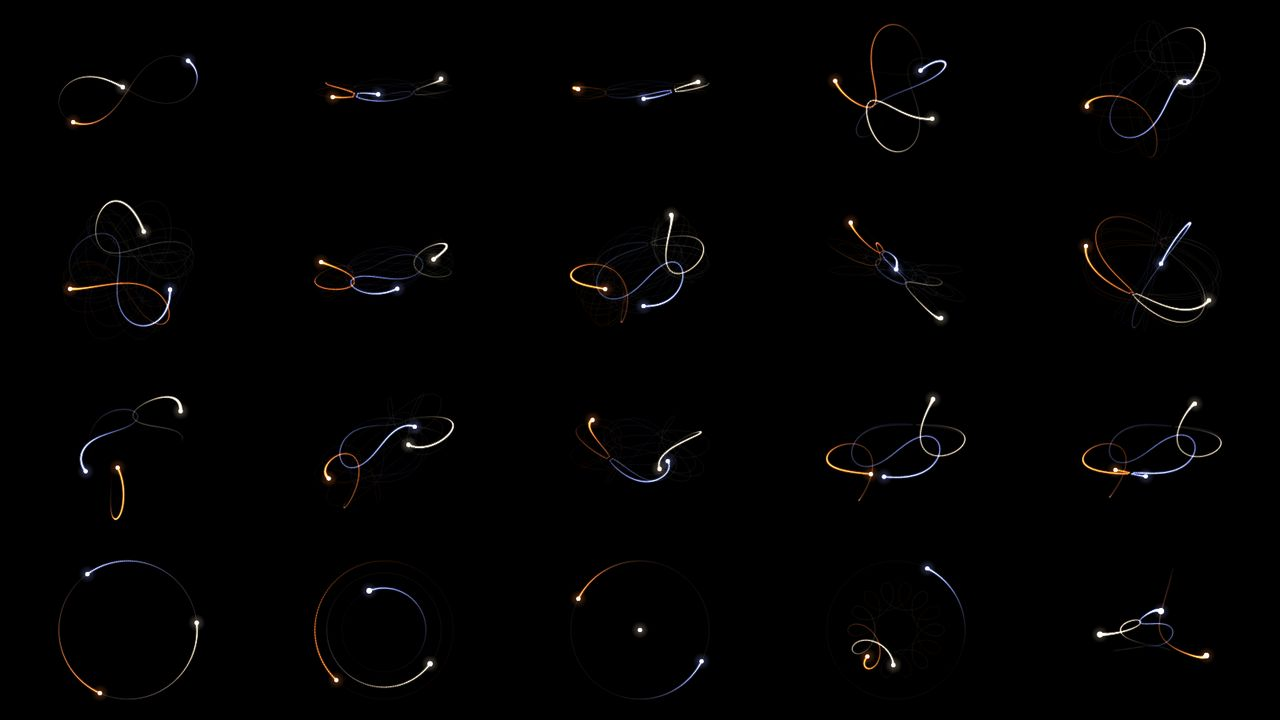
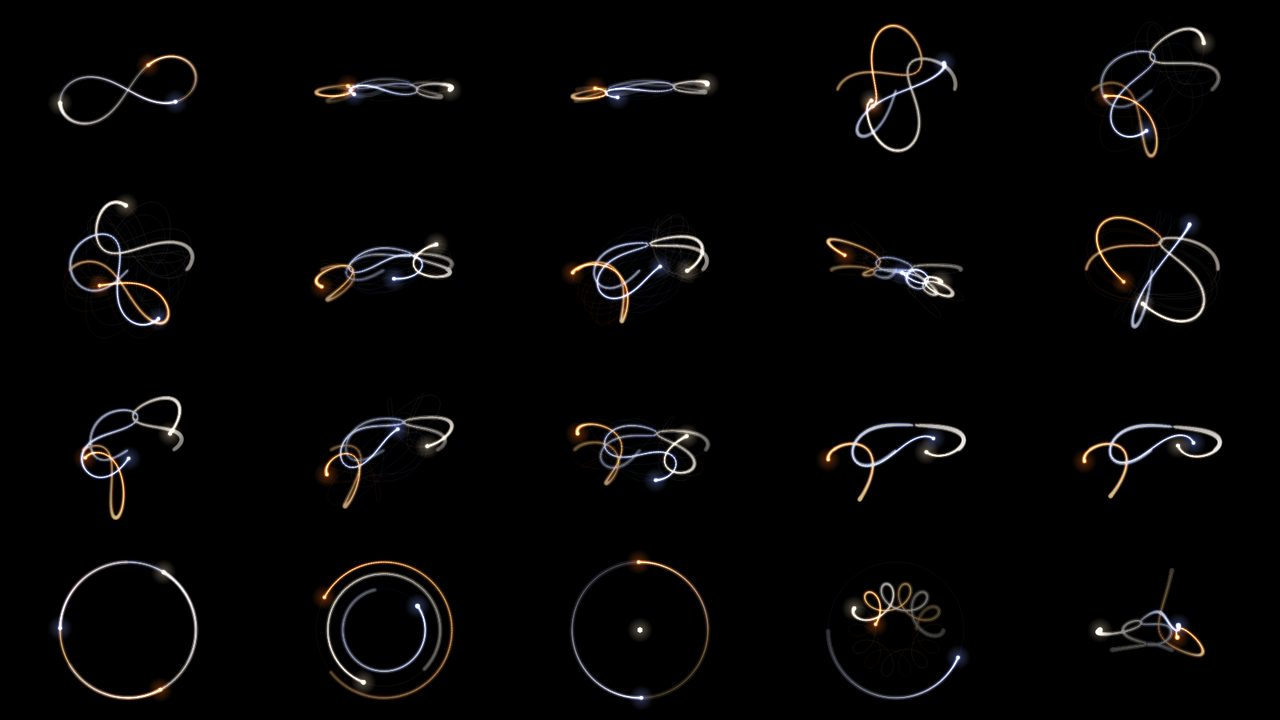
three_body_states: film kalitesi — iz kalıcı tuvalde (destination-out solma + yalnız yeni parça, 3 vuruş: hale/orta/sıcak çekirdek), kare başına ~1,5 ms; pano zamanları görsel tempoya normalize (0,3–2,4×), GIF renkleri, daha büyük hale; advance(dt) API; README galeri görselleri sayfalara bağlandı, i

diff --git a/README.md b/README.md
@@ -29,7 +29,7 @@ Envanter elle sayılmaz: `presets/registry.json` taramayla üretilir (`node scri
 
 ## Laboratuvar galerisi
 
-Astrodinamik ve GNC laboratuvarları: her biri saf bir model modülü, üstünde bir sahne. Görüntüler `?export=1` deterministik karesinden alınmıştır — sunumda göreceğiniz kare budur.
+Astrodinamik ve GNC laboratuvarları: her biri saf bir model modülü, üstünde bir sahne. Görüntüler `?export=1` deterministik karesinden alınmıştır — sunumda göreceğiniz kare budur. Her görsel ilgili sayfaya bağlıdır (yerel sunucuda açın).
 
 <p align="center">
   <img src="docs/media/lab-soi_explorer.jpg" alt="Etki Küresi Kâşifi — Dünya etki küresi ve Hill küresi gerçek ölçekte, Mars'a kalkış hiperbolü, gün işaretleri, Laplace oran paneli ve Güneş çerçevesi paneli" width="820">
@@ -37,30 +37,30 @@ Astrodinamik ve GNC laboratuvarları: her biri saf bir model modülü, üstünde
 
 | | | |
 |:---:|:---:|:---:|
-| ![Üç-cisim durumları — 20 periyodik çözüm](docs/media/lab-three_body_states.jpg) | ![Giriş koridoru — katmanlı atmosfer, hipersonik akış yakın planı, plazma kılıfı](docs/media/lab-reentry_corridor.jpg) | ![Halo yörüngeleri ve değişmez manifoldlar](docs/media/lab-halo_manifolds.jpg) |
+| [![Üç-cisim durumları — 20 periyodik çözüm](docs/media/lab-three_body_states.jpg)](presets/three_body_states/index.html) | [![Giriş koridoru — katmanlı atmosfer, hipersonik akış yakın planı, plazma kılıfı](docs/media/lab-reentry_corridor.jpg)](presets/reentry_corridor/index.html) | [![Halo yörüngeleri ve değişmez manifoldlar](docs/media/lab-halo_manifolds.jpg)](presets/halo_manifolds/index.html) |
 | **Üç-cisim durumları** — figure-8, kelebekler, Lagrange, kaotik Pisagor | **Giriş koridoru** — yay şoku, kızaran kalkan, ablasyon | **Halo + manifoldlar** — kararlı/kararsız demetler |
-| ![Etki küresi — Dünya kamerası, kalkış hiperbolü ve sonda](docs/media/lab-soi_explorer_earth.jpg) | ![Formasyon uçuşu — LVLH, gerçek ölçekli Dünya nadirde](docs/media/lab-formation_flight.jpg) | ![Aurora — çok perdeli, ışınlı, kar örtüsü](docs/media/lab-aurora.jpg) |
+| [![Etki küresi — Dünya kamerası, kalkış hiperbolü ve sonda](docs/media/lab-soi_explorer_earth.jpg)](presets/soi_explorer/index.html) | [![Formasyon uçuşu — LVLH, gerçek ölçekli Dünya nadirde](docs/media/lab-formation_flight.jpg)](presets/formation_flight/index.html) | [![Aurora — çok perdeli, ışınlı, kar örtüsü](docs/media/lab-aurora.jpg)](presets/aurora/index.html) |
 | **Etki küresi** — park yörüngesinden v∞ hedefli hiperbol | **Formasyon** — CW göreli yörüngeler, nadirde Dünya | **Aurora** — emisyon çizgilerinden renk, beş perde |
-| ![Ay serbest dönüş yörüngesi](docs/media/lab-free_return.jpg) | ![CR3BP ve Lagrange noktaları](docs/media/lab-cr3bp_lagrange.jpg) | ![Kütleçekim yardımı ve B-düzlemi](docs/media/lab-gravity_assist.jpg) |
+| [![Ay serbest dönüş yörüngesi](docs/media/lab-free_return.jpg)](presets/free_return/index.html) | [![CR3BP ve Lagrange noktaları](docs/media/lab-cr3bp_lagrange.jpg)](presets/cr3bp_lagrange/index.html) | [![Kütleçekim yardımı ve B-düzlemi](docs/media/lab-gravity_assist.jpg)](presets/gravity_assist/index.html) |
 | **Serbest dönüş** — Apollo 13'ün "8" figürü | **CR3BP** — L1–L5, sıfır-hız eğrileri | **Kütleçekim yardımı** — B-düzlemi hedefleme |
-| ![Porkchop kâşifi](docs/media/lab-porkchop_explorer.jpg) | ![Fırlatma ve tırmanış](docs/media/lab-launch_ascent.jpg) | ![Takımyıldız kapsama](docs/media/lab-constellation_coverage.jpg) |
+| [![Porkchop kâşifi](docs/media/lab-porkchop_explorer.jpg)](presets/porkchop_explorer/index.html) | [![Fırlatma ve tırmanış](docs/media/lab-launch_ascent.jpg)](presets/launch_ascent/index.html) | [![Takımyıldız kapsama](docs/media/lab-constellation_coverage.jpg)](presets/constellation_coverage/index.html) |
 | **Porkchop** — Lambert C3 / ΔV haritası | **Fırlatma** — yerçekimi dönüşü, max-q, MECO | **Kapsama** — Walker takımyıldızları |
-| ![Tisserand grafiği](docs/media/lab-tisserand_graph.jpg) | ![Lambert transfer kâşifi](docs/media/lab-transfer_explorer.jpg) | ![Fırlatma penceresi ve azimut](docs/media/lab-launch_window.jpg) |
+| [![Tisserand grafiği](docs/media/lab-tisserand_graph.jpg)](presets/tisserand_graph/index.html) | [![Lambert transfer kâşifi](docs/media/lab-transfer_explorer.jpg)](presets/transfer_explorer/index.html) | [![Fırlatma penceresi ve azimut](docs/media/lab-launch_window.jpg)](presets/launch_window/index.html) |
 | **Tisserand** — çoklu geçiş planlayıcı | **Transfer** — Lambert yayı, TOF taraması | **Fırlatma penceresi** — azimut, LST, dogleg |
-| ![Düşük itkili transfer](docs/media/lab-low_thrust_transfer.jpg) | ![Yörünge belirleme, EKF](docs/media/lab-orbit_determination.jpg) | ![Randevu ve kenetlenme](docs/media/lab-rendezvous_docking.jpg) |
+| [![Düşük itkili transfer](docs/media/lab-low_thrust_transfer.jpg)](presets/low_thrust_transfer/index.html) | [![Yörünge belirleme, EKF](docs/media/lab-orbit_determination.jpg)](presets/orbit_determination/index.html) | [![Randevu ve kenetlenme](docs/media/lab-rendezvous_docking.jpg)](presets/rendezvous_docking/index.html) |
 | **Düşük itki** — spiral, Edelbaum | **Yörünge belirleme** — EKF, NEES/NIS | **Randevu** — CW yaklaşmaları, KOS |
-| ![3B yörünge ve yer izi](docs/media/lab-ground_track_3d.jpg) | ![Yönelim ve GNC](docs/media/lab-attitude_gnc.jpg) | ![Tutulma ve görüş geometrisi](docs/media/lab-eclipse_geometry.jpg) |
+| [![3B yörünge ve yer izi](docs/media/lab-ground_track_3d.jpg)](presets/ground_track_3d/index.html) | [![Yönelim ve GNC](docs/media/lab-attitude_gnc.jpg)](presets/attitude_gnc/index.html) | [![Tutulma ve görüş geometrisi](docs/media/lab-eclipse_geometry.jpg)](presets/eclipse_geometry/index.html) |
 | **Yer izi** — J2 düğüm kayması | **Yönelim** — tepki tekerlekleri, kuaterniyon PD | **Tutulma** — umbra/penumbra, β açısı |
-| ![Küresel harmonik yerçekimi alanı](docs/media/lab-gravity_field.jpg) | ![Giriş dağılımı Monte Carlo](docs/media/lab-entry_dispersion.jpg) | ![GEO istasyon tutma bütçesi](docs/media/lab-geo_stationkeeping.jpg) |
+| [![Küresel harmonik yerçekimi alanı](docs/media/lab-gravity_field.jpg)](presets/gravity_field/index.html) | [![Giriş dağılımı Monte Carlo](docs/media/lab-entry_dispersion.jpg)](presets/entry_dispersion/index.html) | [![GEO istasyon tutma bütçesi](docs/media/lab-geo_stationkeeping.jpg)](presets/geo_stationkeeping/index.html) |
 | **Yerçekimi alanı** — jeoit, anomali | **Giriş dağılımı** — 3σ menzil, duyarlılık | **GEO** — doğu–batı/kuzey–güney bütçesi |
 
 Sayısal simülasyon ve sinematik sahneler:
 
 | | | |
 |:---:|:---:|:---:|
-| ![Kármán vorteks caddesi, kafes Boltzmann](docs/media/lab-aero_vortex_street.jpg) | ![Kanat profili etrafında panel yöntemi akımı](docs/media/lab-aero_airfoil_flow.jpg) | ![Süpersonik şok dalgaları](docs/media/lab-aero_shock_waves.jpg) |
+| [![Kármán vorteks caddesi, kafes Boltzmann](docs/media/lab-aero_vortex_street.jpg)](presets/aero_vortex_street/index.html) | [![Kanat profili etrafında panel yöntemi akımı](docs/media/lab-aero_airfoil_flow.jpg)](presets/aero_airfoil_flow/index.html) | [![Süpersonik şok dalgaları](docs/media/lab-aero_shock_waves.jpg)](presets/aero_shock_waves/index.html) |
 | **Vorteks caddesi** — D2Q9 canlı çözüm | **Kanat profili** — Kutta koşulu, sınır tabakası | **Şok dalgaları** — eğik şok, Prandtl–Meyer |
-| ![Kayıp yüzeyinde optimizasyon yarışı](docs/media/lab-ml_loss_landscape.jpg) | ![Sinematik uzay yolculuğu kabuğu](docs/media/lab-cinematic_space.jpg) | ![Üç fazlı Ay inişi](docs/media/lab-lunar_descent.jpg) |
+| [![Kayıp yüzeyinde optimizasyon yarışı](docs/media/lab-ml_loss_landscape.jpg)](presets/ml_loss_landscape/index.html) | [![Sinematik uzay yolculuğu kabuğu](docs/media/lab-cinematic_space.jpg)](presets/cinematic_space/index.html) | [![Üç fazlı Ay inişi](docs/media/lab-lunar_descent.jpg)](presets/lunar_descent/index.html) |
 | **Kayıp yüzeyi** — SGD / momentum / Adam | **Sinematik uzay** — dış uzay → güverte → konsol | **Ay inişi** — entegre üç faz, toz ve plum |
 
 ## Hızlı başlangıç
@@ -82,7 +82,7 @@ sunucu (`python -m http.server`) yeterlidir.
 İlk beş dakika için önerilen rota:
 
 1. `http://localhost:8790/demo/index.html` — canlı katalog; **G** dizini açar, ok tuşları slayt değiştirir.
-2. `http://localhost:8790/presets/soi_explorer/index.html` — bir laboratuvarı tek başına aç; sekmeler, kaydırıcılar ve kameralar canlı.
+2. `http://localhost:8790/presets/three_body_states/index.html` — [Üç-Cisim Durumları](presets/three_body_states/index.html): 20 periyodik çözüm canlı, tam ekran izlemelik; `http://localhost:8790/presets/soi_explorer/index.html` — bir laboratuvarı tek başına aç; sekmeler, kaydırıcılar ve kameralar canlı.
 3. Aynı adrese `?export=1&t=2.5` ekle — deterministik kare; sunum çıktısı bu kareyi kullanır.
 4. `node scripts/validate-astro.mjs` — sahnelerin dayandığı sayıların bağımsız denetimi.
 

diff --git a/skills/design-scientific-motion/references/three_body_states.md b/skills/design-scientific-motion/references/three_body_states.md
@@ -45,7 +45,16 @@ gösterim parametresi; Pisagor döngüsü fiziksel değildir; birimsiz sistem.
 
 ## Hareket
 
+İz, KALICI bir tuvalde tutulur: her karede tuval `destination-out` ile
+e^(−dt/τ) soldurulur ve yalnız o karenin yeni parçası toplamsal çizilir (üç
+vuruş: geniş hale, orta, sıcak çekirdek). Böylece binlerce parça yeniden
+çizilmez; kare başına ~1,5 ms (20 pano). Zaman kaydırma baştan yeniden
+entegre edip izi aynı kuralla kurar (deterministik). Her panonun zaman
+çarpanı `k` görsel tempoya normalize edilir: ortalama cisim hızı pano
+kesri/saniye cinsinden ~0,17 olacak şekilde (0,3–2,4 aralığında), yani
+figure-8 ile bumblebee aynı tempoda izlenir. `tb.advance(dt)` kare kare sürer.
+
 Giriş: panolar sırayla belirir (1,2 s). Sonra sürekli entegrasyon: hız
 `speed` birim/s (varsayılan 0,8 → figure-8 periyodu ≈ 8 s, bumblebee ≈ 80 s).
 Izler toplamsal karışımla çizilir (ışık kaynağı), dekor ışıması yok.
-Statik/azaltılmış hareket: t = 4,5 tablosu.
+Statik/azaltılmış hareket: t = 6 tablosu.
